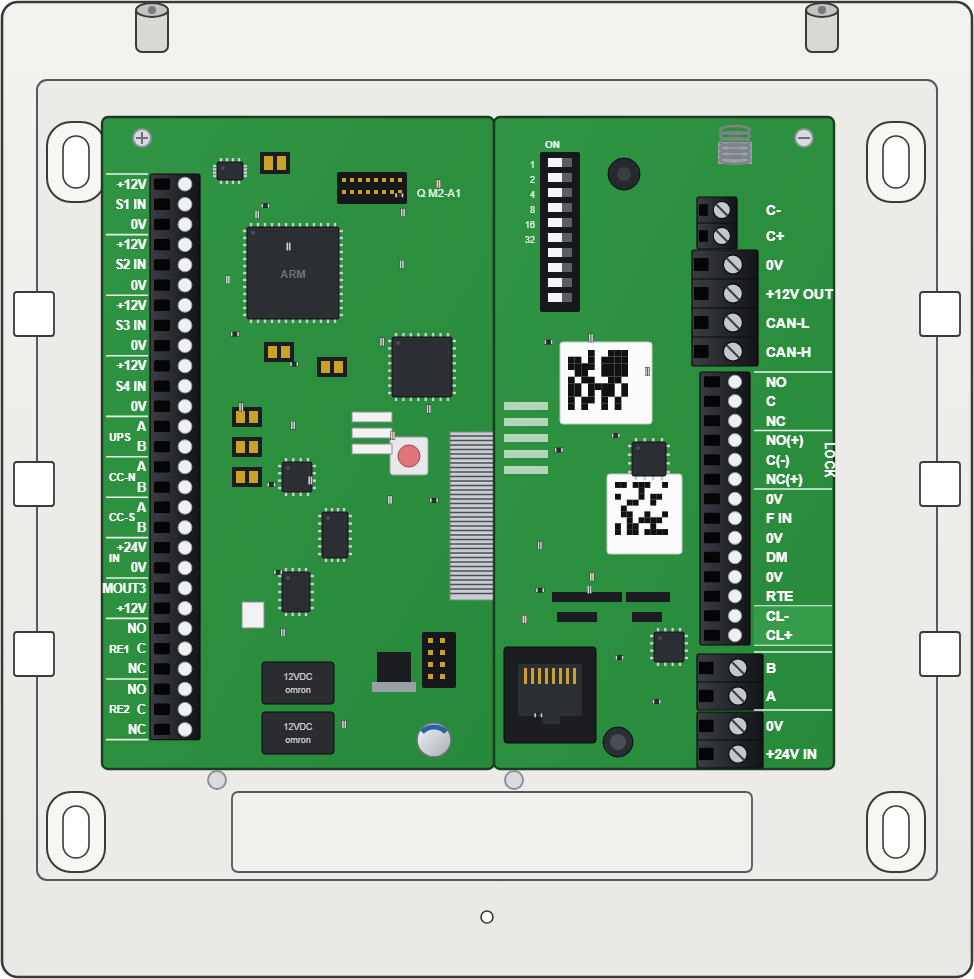
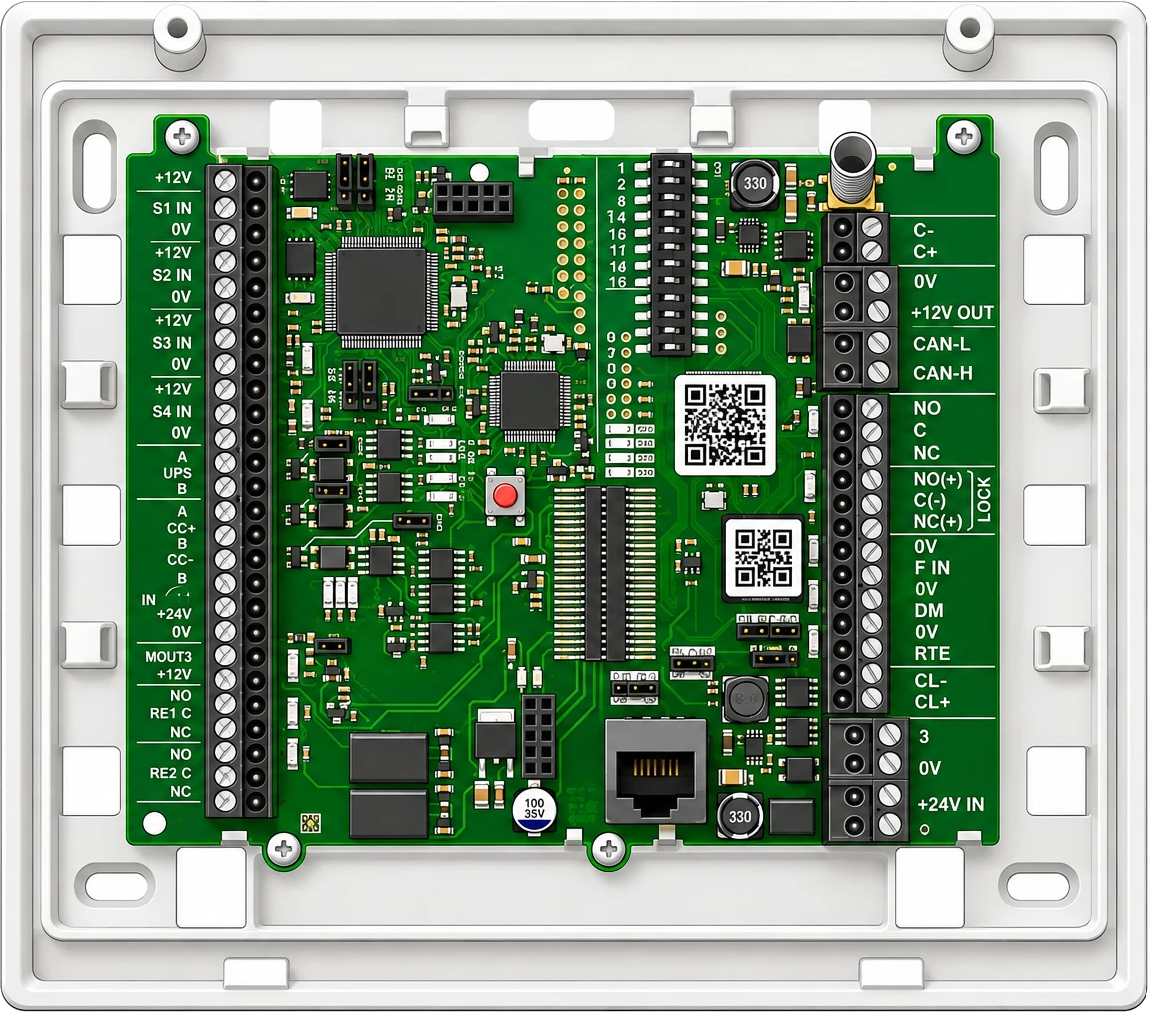
Koblingsskjema: tydelig blå markering med ramme og antall, skisse av det kopierte følger musen, Ctrl + V limer inn der man trykker; nytt bilde av ARX dørsentral

diff --git a/src/PortalItlock.Web/wwwroot/js/koblingsskjema.js b/src/PortalItlock.Web/wwwroot/js/koblingsskjema.js
@@ -1397,6 +1397,11 @@ export function enableEditorSnarveier(containerEl, dotNetRef) {
     if (containerEl._editorSnarveier) {
         return;
     }
+    // Ctrl + V limer inn der krysset står (trykk på tegningen først), ellers der musen er.
+    const limInn = () => {
+        const p = containerEl._limpunkt || containerEl._mus || null;
+        dotNetRef.invokeMethodAsync('OnLimInnVed', p ? p.x : null, p ? p.y : null);
+    };
     const handler = (e) => {
         const tag = (e.target.tagName || '').toLowerCase();
         if (tag === 'input' || tag === 'textarea' || tag === 'select' || e.target.isContentEditable || !containerEl.isConnected) {
@@ -1407,8 +1412,13 @@ export function enableEditorSnarveier(containerEl, dotNetRef) {
         if (containerEl.dataset.rediger !== '1') {
             if (ctrl && tast === 'v' && !window.getSelection()?.toString()) {
                 e.preventDefault();
-                dotNetRef.invokeMethodAsync('OnSnarvei', 'lim');
+                limInn();
             }
+            return;
+        }
+        if (ctrl && tast === 'v') {
+            e.preventDefault();
+            limInn();
             return;
         }
         // Tekst som er markert inne på tegningen (f.eks. etter å ha dratt over merking)
@@ -1451,6 +1461,109 @@ export function enableEditorSnarveier(containerEl, dotNetRef) {
     containerEl._editorSnarveier = handler;
     document.addEventListener('keydown', handler);
     dokumentLyttere.add(handler);
+}
+
+// Skissen av det som er kopiert: følger musen over tegningen, og et klikk på et
+// tomt sted setter krysset der Ctrl + V limer inn. data = { w, h, rekt: [[x,y,w,h]],
+// linjer: [[x,y,x,y,...]] } i prosent av lerretet, regnet fra øverste venstre hjørne.
+export function settSkisse(canvasEl, dataJson) {
+    const data = dataJson ? JSON.parse(dataJson) : null;
+    canvasEl._skisseData = data;
+    let el = canvasEl.querySelector(':scope > .ks-skisse');
+    if (!data) {
+        el?.remove();
+        canvasEl._limpunkt = null;
+        tegnLimpunkt(canvasEl);
+        return;
+    }
+    if (!el) {
+        el = document.createElement('div');
+        el.className = 'ks-skisse';
+        el.style.display = 'none';
+        canvasEl.appendChild(el);
+    }
+    el.style.width = data.w + '%';
+    el.style.height = data.h + '%';
+    const vb = `0 0 ${Math.max(data.w, 0.01)} ${Math.max(data.h, 0.01)}`;
+    el.innerHTML = `<svg viewBox="${vb}" preserveAspectRatio="none">`
+        + data.rekt.map(r => `<rect x="${r[0]}" y="${r[1]}" width="${r[2]}" height="${r[3]}" rx="0.3" fill="rgba(31,111,235,0.08)" stroke="#1f6feb" stroke-width="1.5" stroke-dasharray="5 4" vector-effect="non-scaling-stroke"/>`).join('')
+        + data.linjer.map(l => `<polyline points="${l.join(' ')}" fill="none" stroke="#1f6feb" stroke-width="2.5" stroke-dasharray="6 4" vector-effect="non-scaling-stroke"/>`).join('')
+        + '</svg>';
+
+    if (canvasEl._skisseKoblet) {
+        return;
+    }
+    canvasEl._skisseKoblet = true;
+    const pst = (e) => {
+        const r = canvasEl.getBoundingClientRect();
+        return { x: (e.clientX - r.left) / r.width * 100, y: (e.clientY - r.top) / r.height * 100 };
+    };
+    const flytt = (p) => {
+        const s = canvasEl.querySelector(':scope > .ks-skisse');
+        const d = canvasEl._skisseData;
+        if (!s || !d) {
+            return;
+        }
+        const synlig = p && canvasEl.dataset.harvalg !== '1';
+        s.style.display = synlig ? 'block' : 'none';
+        if (synlig) {
+            s.style.left = (p.x - d.w / 2) + '%';
+            s.style.top = (p.y - d.h / 2) + '%';
+        }
+    };
+    canvasEl.addEventListener('pointermove', (e) => {
+        canvasEl._mus = pst(e);
+        if (!canvasEl._limpunkt) {
+            flytt(canvasEl._mus);
+        }
+    });
+    canvasEl.addEventListener('pointerleave', () => {
+        canvasEl._mus = null;
+        if (!canvasEl._limpunkt) {
+            flytt(null);
+        }
+    });
+    // Klikk på et tomt sted (eller på et bakgrunnsbilde) setter krysset.
+    canvasEl.addEventListener('click', (e) => {
+        if (!canvasEl._skisseData || canvasEl.dataset.harvalg === '1' || currentStrekTegning) {
+            return;
+        }
+        const marker = e.target.closest && e.target.closest('.kobling-symbol-marker');
+        if (marker) {
+            const m = marker.getBoundingClientRect();
+            const c = canvasEl.getBoundingClientRect();
+            if (!(marker.classList.contains('kobling-symbol-marker-laast') || m.width * m.height > c.width * c.height * 0.45)) {
+                return;
+            }
+        }
+        canvasEl._limpunkt = pst(e);
+        tegnLimpunkt(canvasEl);
+        flytt(canvasEl._limpunkt);
+    }, true);
+    canvasEl._flyttSkisse = flytt;
+}
+
+function tegnLimpunkt(canvasEl) {
+    let k = canvasEl.querySelector(':scope > .ks-limpunkt');
+    const p = canvasEl._limpunkt;
+    if (!p) {
+        k?.remove();
+        return;
+    }
+    if (!k) {
+        k = document.createElement('div');
+        k.className = 'ks-limpunkt';
+        k.innerHTML = '<span>Ctrl + V limer inn her</span>';
+        canvasEl.appendChild(k);
+    }
+    k.style.left = p.x + '%';
+    k.style.top = p.y + '%';
+}
+
+export function nullstillLimpunkt(canvasEl) {
+    canvasEl._limpunkt = null;
+    tegnLimpunkt(canvasEl);
+    canvasEl._flyttSkisse?.(canvasEl._mus);
 }
 
 export function disableEditorSnarveier(containerEl) {

diff --git a/src/PortalItlock.Web/Components/Pages/KoblingsSkjemaVisning.razor.css b/src/PortalItlock.Web/Components/Pages/KoblingsSkjemaVisning.razor.css
@@ -1086,7 +1086,7 @@
     }
 
 .kobling-strek-svg-overlay polyline.ks-strek-valgt {
-    filter: drop-shadow(0 0 3px rgba(131, 94, 65, 0.75));
+    filter: drop-shadow(0 0 2px #1f6feb) drop-shadow(0 0 5px rgba(31, 111, 235, 0.8));
 }
 
 .ks-strek-rad-valgt {
@@ -1970,3 +1970,16 @@
 .kobling-canvas[data-marker-modus="1"], .kobling-canvas[data-marker-modus="1"] ::deep * { cursor: crosshair !important; }
 
 .ks-utklipp-melding { position: fixed; left: 50%; bottom: 1.4rem; transform: translateX(-50%); z-index: 2000; display: flex; align-items: center; gap: 0.5rem; background: #14213d; color: #fff; padding: 0.65rem 1rem; border-radius: 12px; font-size: 0.9rem; box-shadow: 0 10px 30px rgba(15, 27, 51, 0.3); max-width: calc(100vw - 2rem); }
+
+/* Ramme rundt alt som er markert, med antall. */
+.ks-valgramme { position: absolute; border: 1.5px dashed #1f6feb; border-radius: 6px; pointer-events: none; z-index: 6; }
+.ks-valgramme span { position: absolute; left: -1.5px; bottom: 100%; margin-bottom: 4px; background: #1f6feb; color: #fff; font-size: 11.5px; font-weight: 700; padding: 2px 8px; border-radius: 6px 6px 6px 0; white-space: nowrap; }
+.kobling-rubber-band { border: 1.5px solid #1f6feb !important; background: rgba(31, 111, 235, 0.08) !important; }
+/* Skissen av det som er kopiert følger musen; krysset viser hvor det limes inn. */
+.ks-skisse { position: absolute; pointer-events: none; z-index: 7; opacity: 0.7; }
+.ks-skisse svg { position: absolute; inset: 0; width: 100%; height: 100%; overflow: visible; }
+.ks-limpunkt { position: absolute; width: 26px; height: 26px; transform: translate(-50%, -50%); pointer-events: none; z-index: 8; }
+.ks-limpunkt::before, .ks-limpunkt::after { content: ""; position: absolute; background: #1f6feb; }
+.ks-limpunkt::before { left: 12px; top: 0; width: 2px; height: 26px; }
+.ks-limpunkt::after { top: 12px; left: 0; height: 2px; width: 26px; }
+.ks-limpunkt span { position: absolute; left: 18px; top: 18px; background: #1f6feb; color: #fff; font-size: 11.5px; font-weight: 700; padding: 3px 8px; border-radius: 6px; white-space: nowrap; }

diff --git a/src/PortalItlock.Web/Components/Pages/KoblingsSymbolElement.razor.css b/src/PortalItlock.Web/Components/Pages/KoblingsSymbolElement.razor.css
@@ -17,10 +17,32 @@
     cursor: grabbing;
 }
 
+/* Markert: tydelig blå ramme og en blå hake i hjørnet. */
 .kobling-symbol-marker-selected {
-    outline: 2px solid var(--itlock-accent);
-    outline-offset: 0;
+    outline: 2.5px solid #1f6feb;
+    outline-offset: 3px;
+    box-shadow: 0 0 0 7px rgba(31, 111, 235, 0.13);
+    border-radius: 4px;
 }
+
+    .kobling-symbol-marker-selected::after {
+        content: "✓";
+        position: absolute;
+        top: -11px;
+        right: -11px;
+        width: 20px;
+        height: 20px;
+        border-radius: 50%;
+        background: #1f6feb;
+        color: #fff;
+        font-size: 12px;
+        font-weight: 700;
+        display: flex;
+        align-items: center;
+        justify-content: center;
+        pointer-events: none;
+        z-index: 3;
+    }
 
 .kobling-symbol-marker-laast {
     outline: 1px dashed var(--itlock-ink-muted);

diff --git a/src/PortalItlock.Web/Models/KoblingsKomponentKatalog.cs b/src/PortalItlock.Web/Models/KoblingsKomponentKatalog.cs
@@ -102,7 +102,7 @@ public static class KoblingsKomponentKatalog
         Illustrasjon("iloq-kodeleser", "iLOQ kodeleser", 6, 377, 677),
         Illustrasjon("iloq-leser-slank", "iLOQ leser (slank)", 4, 130, 298),
         Illustrasjon("steplock-osdp", "StepLock OSDP dørkontroller", 20, 794, 809),
-        Illustrasjon("arx-dorsentral", "ARX dørsentral", 22, 974, 979),
+        Illustrasjon("arx-dorsentral", "ARX dørsentral", 22, 1149, 1013),
     ];
 
     public static readonly List<KoblingsKomponent> UtstyrVedDora =
